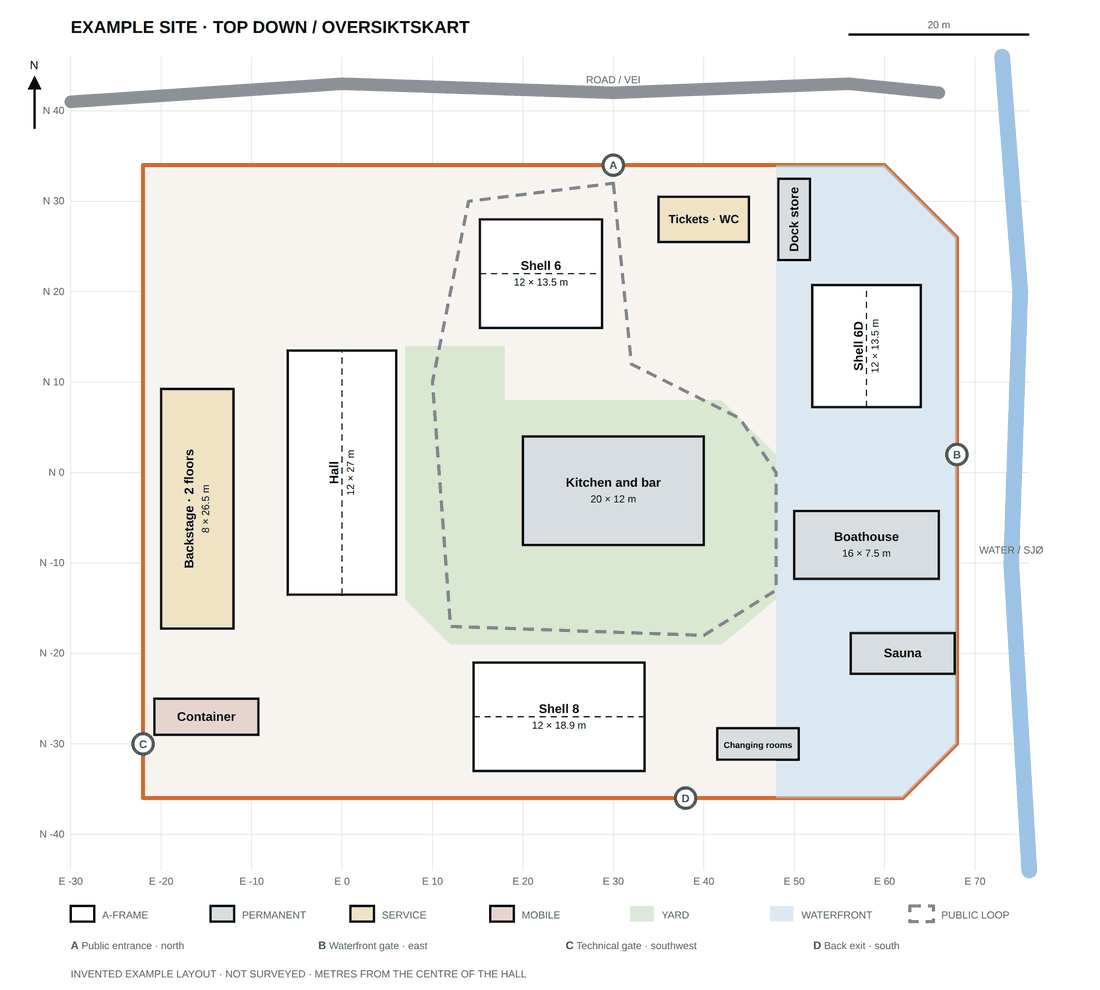
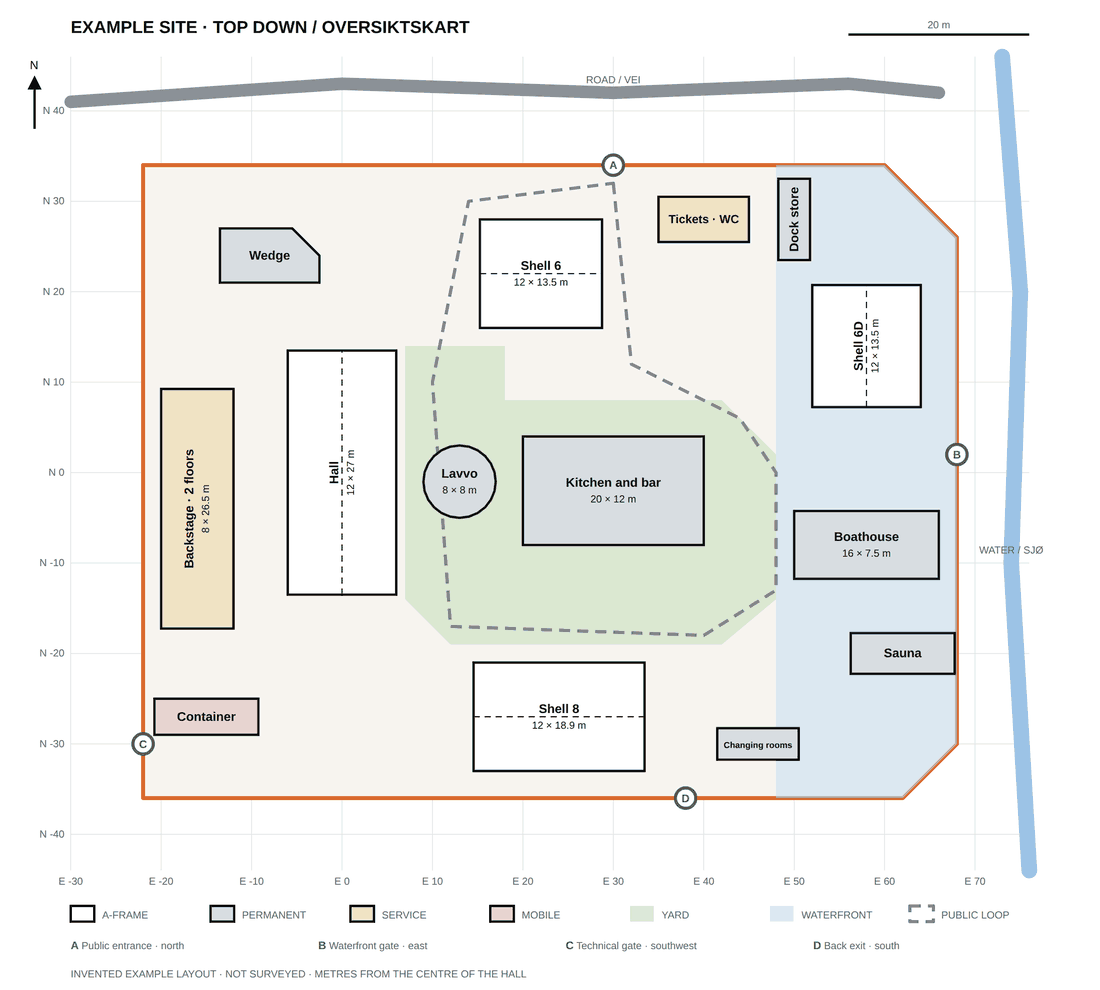
Site model: round and outlined footprints, with a lavvo and the wedge on the example site
A structure may be a circle (round: true) or give its own convex outline. The
map, the overlap check and the layout editor all use the real footprint.

Changed region(s): [[0.1855, 0.2121, 0.3091, 0.303], [0.3709, 0.4242, 0.4636, 0.5455]]

diff --git a/README.md b/README.md
@@ -187,6 +187,10 @@ laid out to show how the pieces are meant to work together:
 - **East:** the waterfront, with the boathouse, sauna, changing rooms and a quiet
   shell.
 
+A structure is a rectangle unless it gives `round: true` (a circle whose
+diameter is its width) or `outline` (its own convex corners, in metres from its
+centre). The example site has one of each: the lavvo and the wedge.
+
 The Hall is fixed at local `E=0, N=0`; every other structure, perimeter vertex,
 zone and gate is in metres from that reference, rounded to half a metre.
 Building sheets keep their local `X=length, Y=width, Z=height` axes, while the
